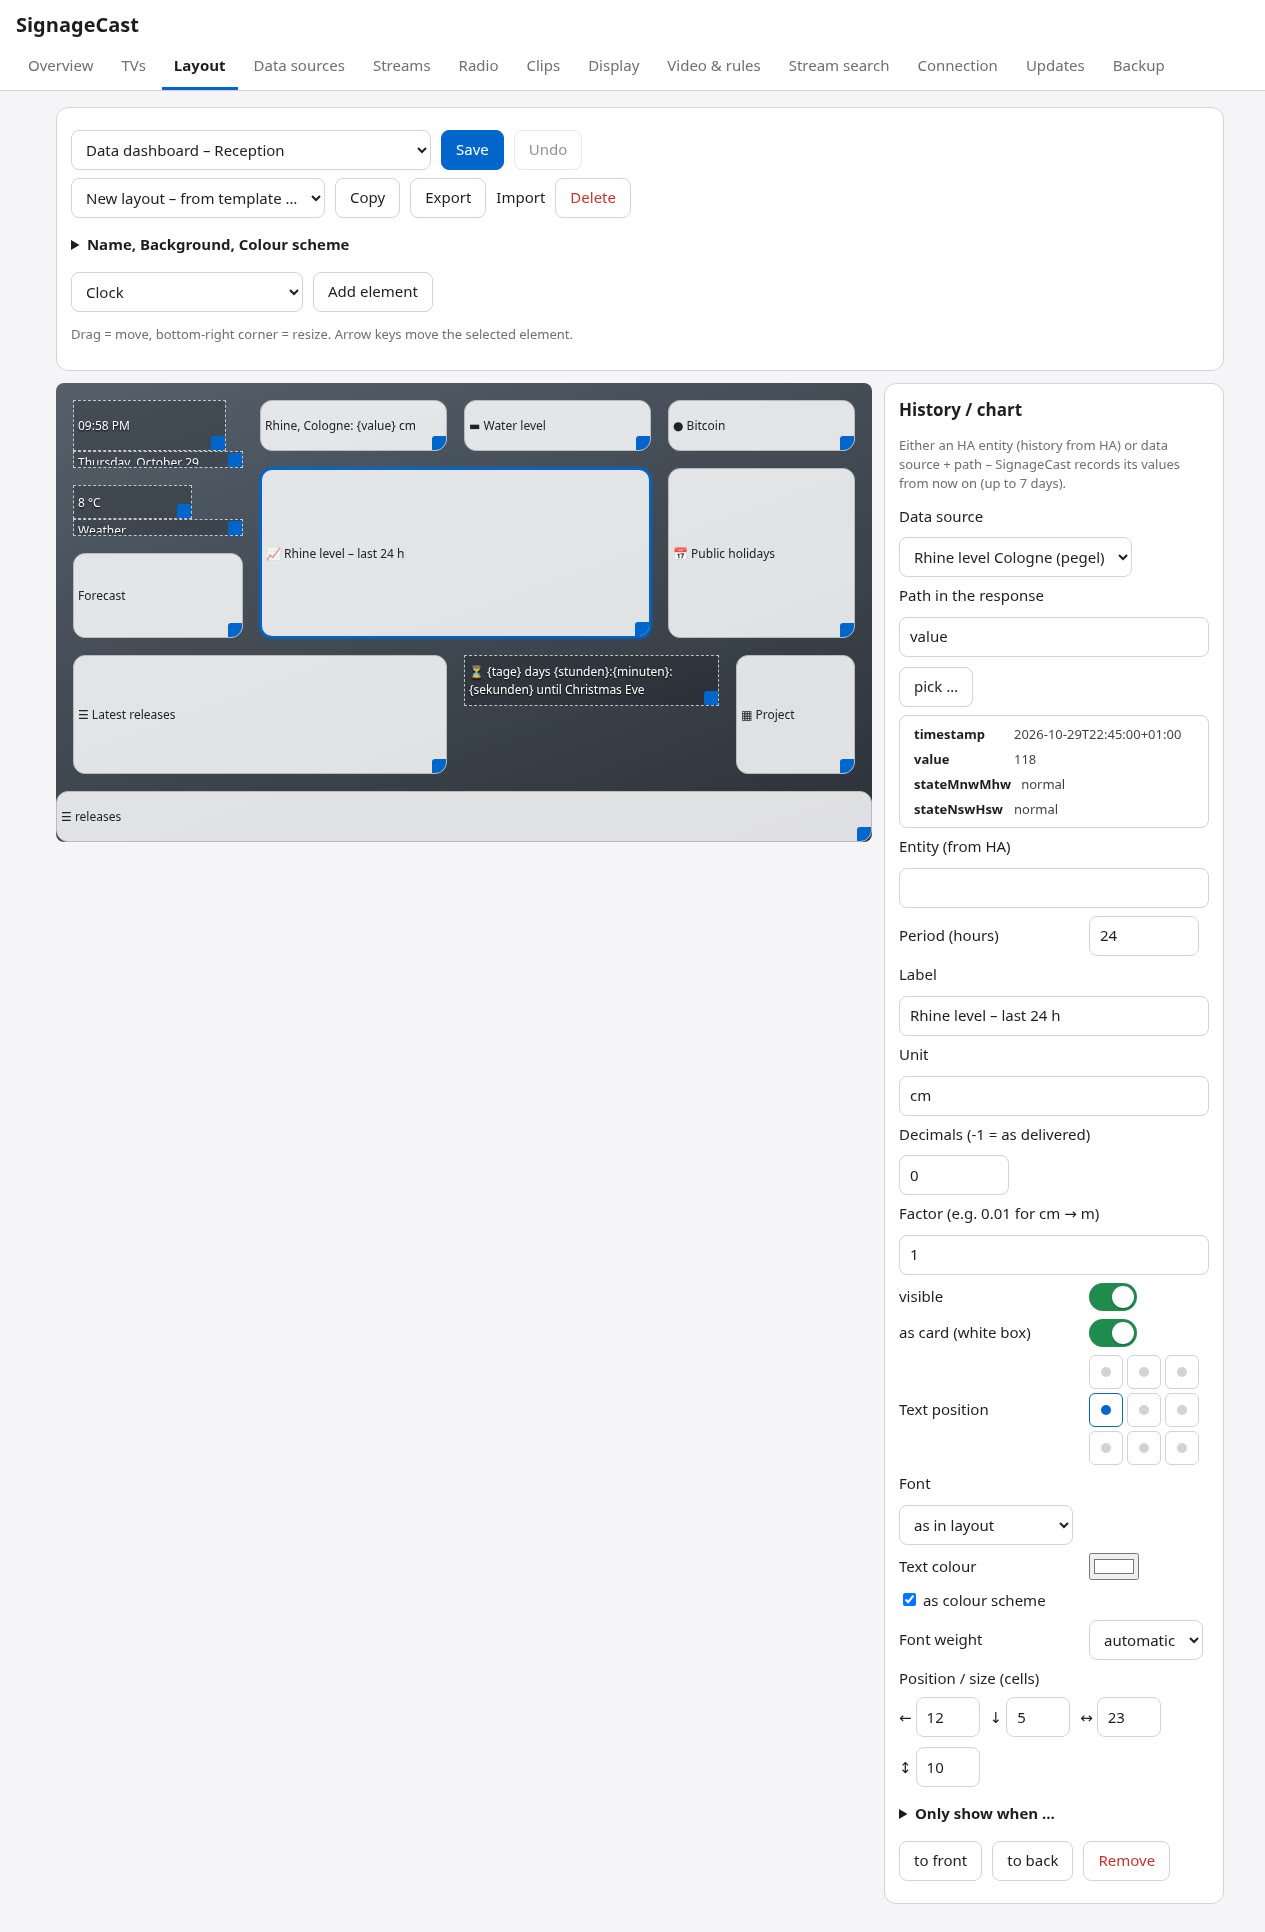
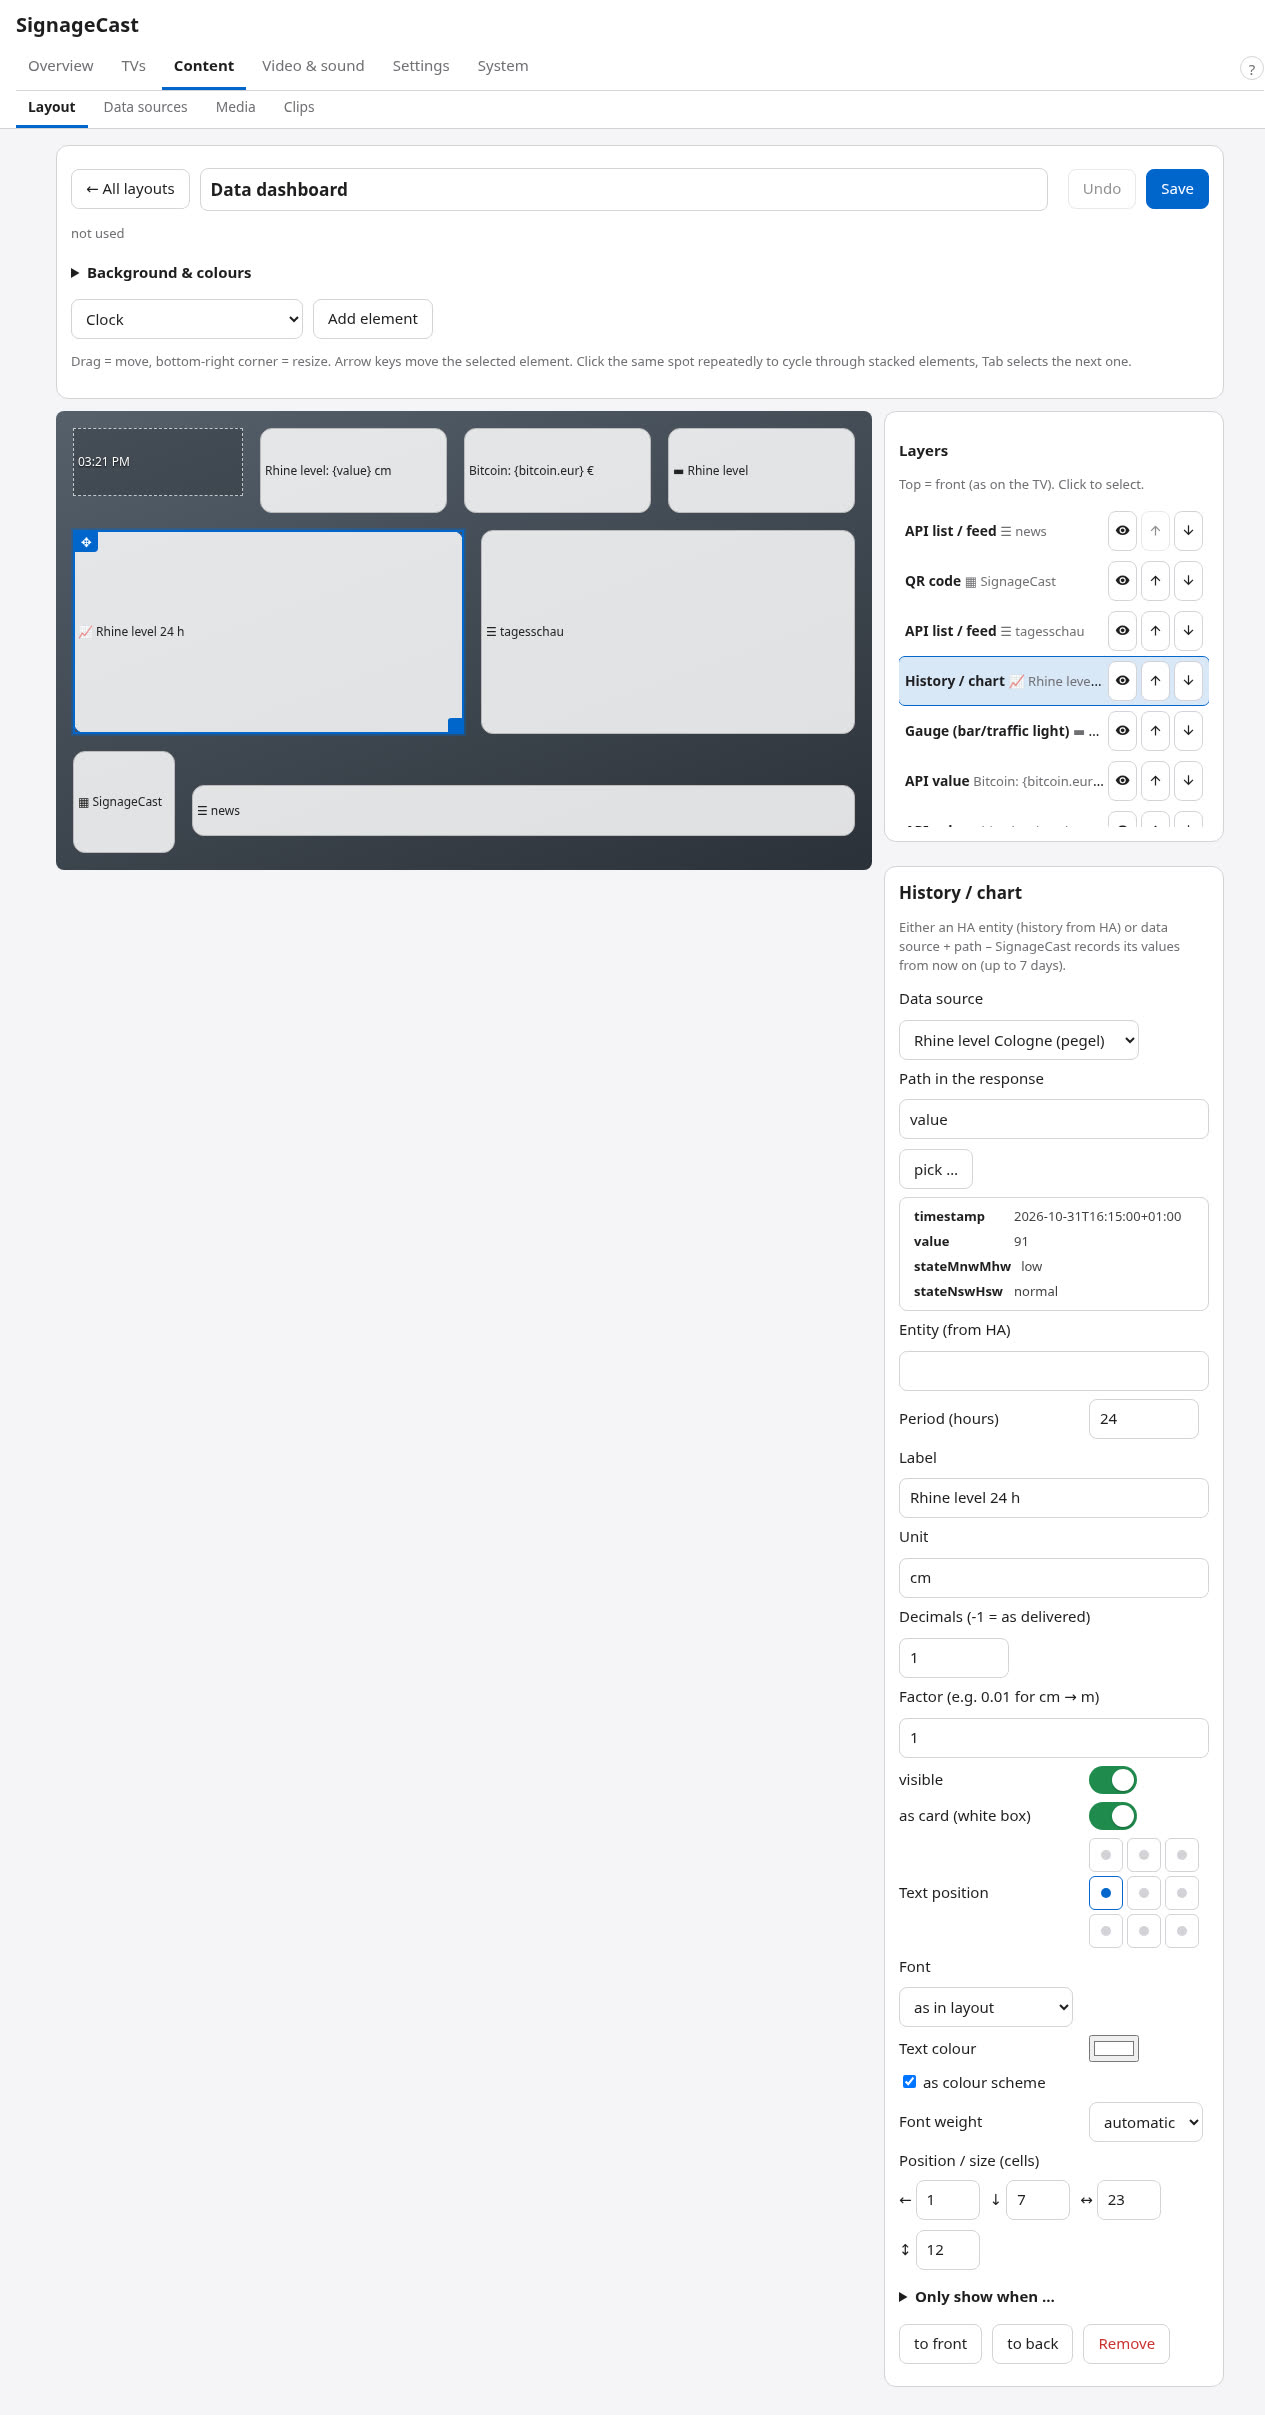
Tour: neue Bilder für Layouts (Übersicht, Editor mit Ebenen), Datenquellen, curl-Import, Streams, Radio, Einspieler, Leistungstest, Durchsage-Pult
Aufgenommen auf einer Demo-Installation mit öffentlichen Beispieldaten (Pegel Köln, CoinGecko,
tagesschau-RSS, Deutschlandfunk); Heimnetz-Adressen vor jedem Foto durch signagecast.local ersetzt.

Claude-Session: https://claude.ai/code/session_01LNDhmfSQXqarshduJ2BAH1

diff --git a/docs/TOUR.md b/docs/TOUR.md
@@ -1,9 +1,9 @@
 # SignageCast – screenshot tour
 
 A walk through SignageCast: what the TV shows and how you set it up in the browser. All pictures are from a demo
-installation (location Berlin, public example data, no Home Assistant connected). The admin pages overview, TVs,
-settings, notifications, backup and phone show version 0.17 with its six areas (Overview, TVs, Content, Video & sound,
-Settings, System); the content pages are from version 0.13 and look the same apart from the navigation bar.
+installation (location Berlin, public example data, no Home Assistant connected). The admin pictures show versions
+0.17–0.19 with the six areas Overview, TVs, Content, Video & sound, Settings and System; only the updates page is from
+version 0.13.
 
 [← back to the README](../README.md)
 
@@ -47,11 +47,18 @@ original sound of the cams), volume, categories and video settings (4K/Full HD, 
 
 ![TV settings](tour/05-tvs.jpg)
 
-### 6. Layout editor
-Drag and resize elements on a 48 × 27 grid; templates for living room, waiting room and company reception. On the
-right the selected element – here a chart: pick the value by clicking it in the data source's response.
+### 6. Layouts and editor
+Content → Layouts starts with all layouts as tiles – mini preview, on which TV each one is shown, edit, and copy /
+export / delete in the “⋯” menu. “New layout” asks for a name and a starting point (empty, template or copy), so an
+existing layout is never overwritten.
 
-![Layout editor with path picker](tour/06-layout-editor.jpg)
+![Layouts overview](tour/06a-layouts.jpg)
+
+In the editor, drag and resize elements on a 48 × 27 grid. Next to it the **layers** (top = front, as on the TV; show
+or hide, bring forward / send backward) and the selected element – here a chart: pick the value by clicking it in the
+data source's response. Click the same spot again to reach stacked elements, Tab selects the next one.
+
+![Layout editor with layers and path picker](tour/06-layout-editor.jpg)
 
 ### 7. Data sources
 Your own JSON APIs, RSS/Atom feeds, pictures, iCal calendars and cameras, fetched by the container at the interval you
@@ -123,12 +130,28 @@ the webhook for short messages on the TVs (key shown only once).
 
 ![Notifications and webhook](tour/17-notifications.jpg)
 
+### 18. Performance test
+System → Performance measures for 10 seconds how smoothly every running TV is rendered and encoded – frames/s of the
+TV page and of the encoder, speed, duplicated frames, CPU per TV, memory, graphics unit – and gives concrete
+recommendations. Here a deliberately overloaded 2-core test container. A second page, opened on the playback device,
+measures transfer and playback there.
+
+![Performance test with recommendations](tour/18-performance.jpg)
+
+### 19. Announcement panel
+Settings → Announcements: accounts with their own password and the TVs they may reach, the voice (offline with Piper:
+Kerstin or Thorsten), chime and templates. The reception opens `http://<IP>:8890/pult` – it can only send and end
+announcements, nothing else.
+
+![Announcement panel settings](tour/19-announcements.jpg)
+
 ---
 
 ## Deutsch (kurz)
 
 Die Verwaltung ist seit 0.17 in sechs Bereiche gegliedert (Übersicht mit „Zu erledigen“, Fernseher, Inhalte,
-Video & Ton, Einstellungen, System). Die Tour zeigt zuerst zwei Fernseher – Live-Tierkamera mit Wetter und eigenen Daten (Rheinpegel, Bitcoin, Countdown)
+Video & Ton, Einstellungen, System). Neu seit 0.17–0.19: Layouts-Übersicht mit Kacheln, Ebenen im Editor,
+Leistungstest mit Empfehlungen und das Durchsage-Pult. Die Tour zeigt zuerst zwei Fernseher – Live-Tierkamera mit Wetter und eigenen Daten (Rheinpegel, Bitcoin, Countdown)
 sowie ein reines Daten-Layout (Diagramm mit echten Pegelwerten, Feiertage per iCal, Feed, QR-Code). Danach die
 Verwaltung: SignageCast als Menüpunkt in Cockpit, Übersicht mit „Zu erledigen“, Fernseher, Layout-Editor mit Pfad-Auswahl, Datenquellen
 mit Antwort-Baum und curl-Import, Streams, Radio, Einspieler mit Puffer, Verbindung mit Zeitquelle, Updates
